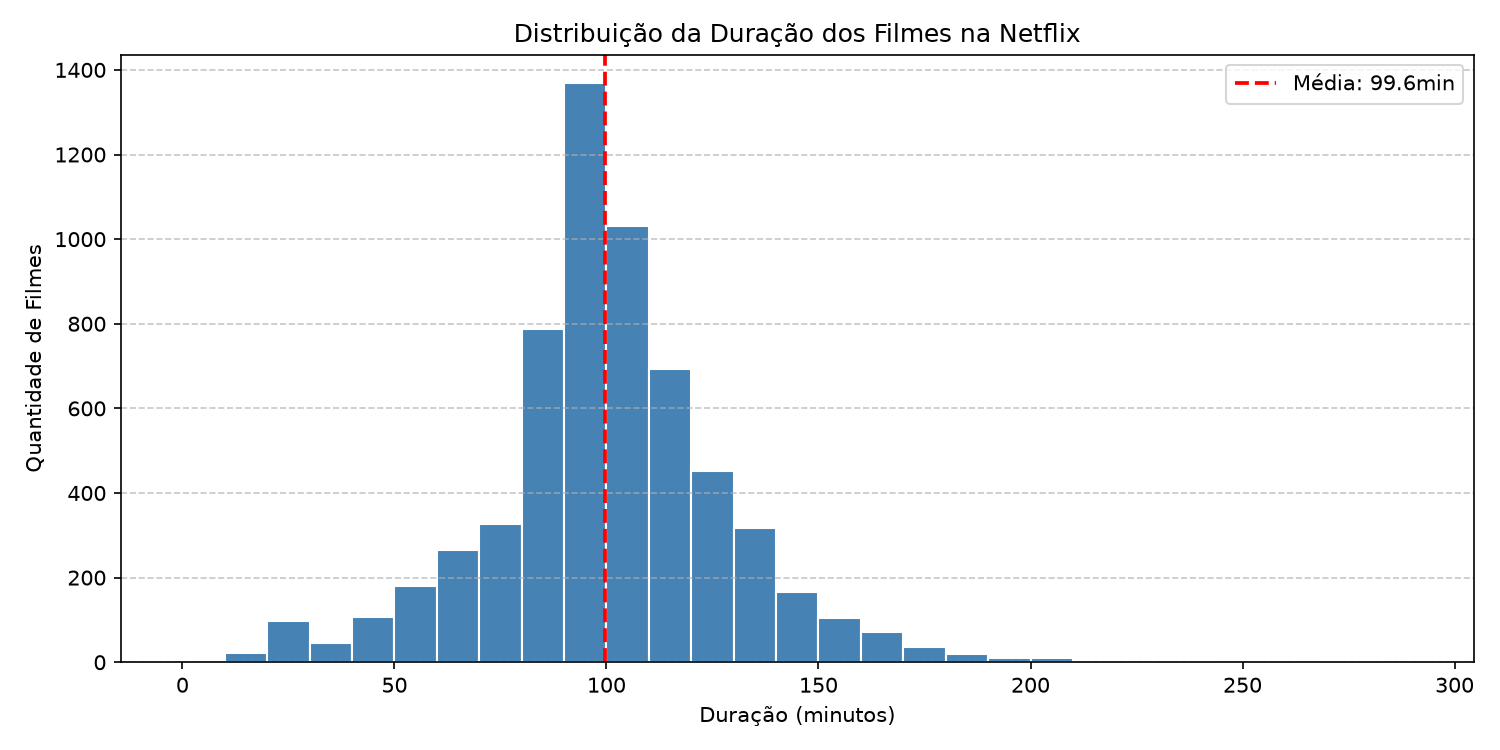
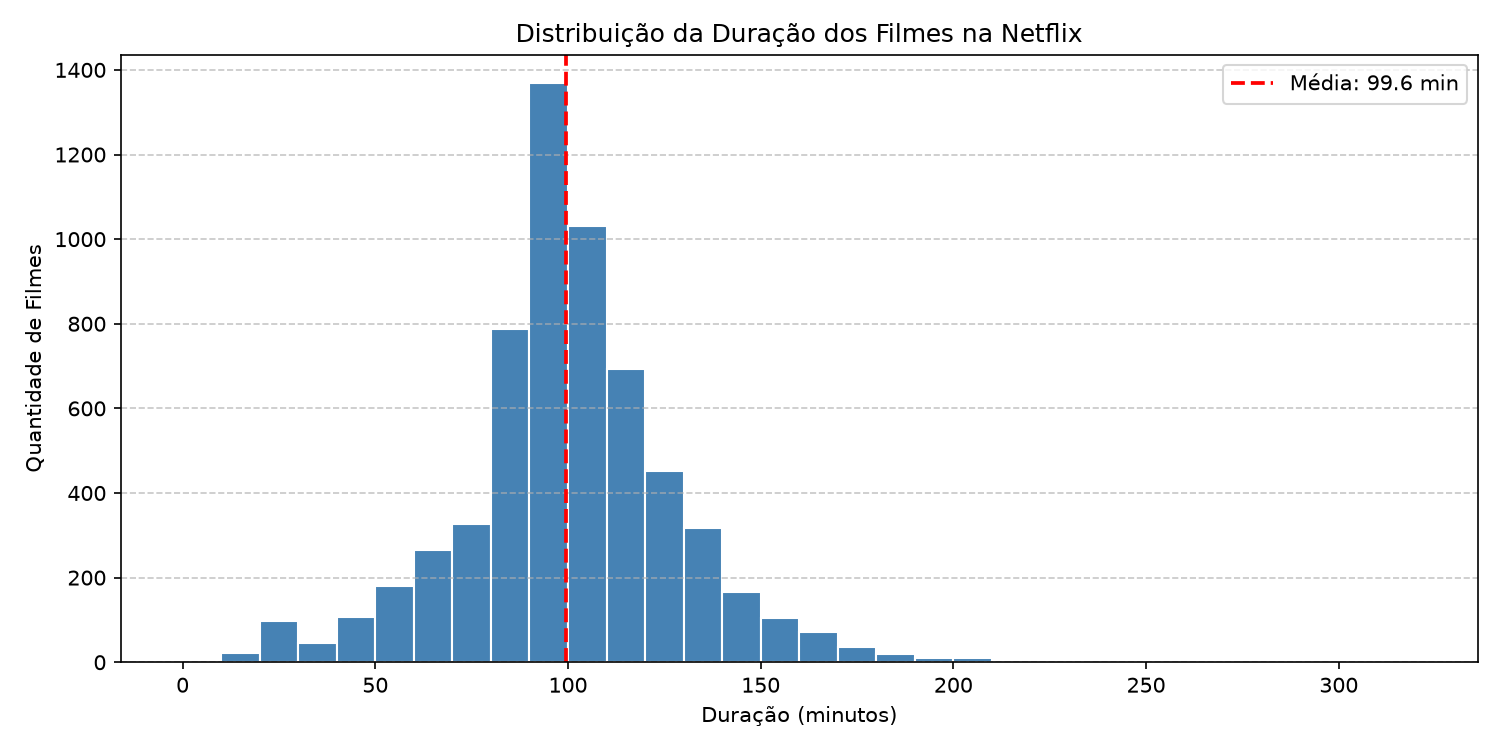
fix(netflix): alinha estatisticas dos filmes, ajusta bins e adiciona README raiz

diff --git a/Netflix EDA/catalog_diagnostics.py b/Netflix EDA/catalog_diagnostics.py
@@ -4,11 +4,16 @@ import matplotlib.pyplot as plt
 
 
 # 1. Carregamento dos dados
-data_path = Path("Dataset/netflix_titles.csv")
-df = pd.read_csv(data_path) 
+BASE_DIR = Path(__file__).resolve().parent
+data_path = BASE_DIR / "Dataset" / "netflix_titles.csv"
+images_dir = BASE_DIR / "images"
+images_dir.mkdir(exist_ok=True)
 
-if data_path.exists():
-    print("Arquivo carregado com sucesso!")
+if not data_path.exists():
+    raise FileNotFoundError(f"Arquivo não encontrado em: {data_path}")
+
+df = pd.read_csv(data_path)
+print("Arquivo carregado com sucesso!")
 
 
 # 2. Visualização geral dos dados
@@ -30,32 +35,29 @@ print(df[["duration", "duration_int", "duration_type"]].head())
 print("\nCategorias em duration_type:")
 print(df["duration_type"].value_counts(dropna=False))
 
-#Medidas de Tendência Central 
-coluna = "duration_int"
-
-media = df[coluna].mean()
-mediana = df[coluna].median()
-moda = df[coluna].mode()
-
+# Medidas de Tendência Central e Dispersão (apenas filmes, em minutos)
 duracao_filmes = df.loc[df["type"] == "Movie", "duration_int"].dropna()
 
-#Medida de Dispersão
-desvio_padrao = df[coluna].std()
+media = duracao_filmes.mean()
+mediana = duracao_filmes.median()
+moda = duracao_filmes.mode()
+desvio_padrao = duracao_filmes.std()
+minimo = duracao_filmes.min()
+maximo = duracao_filmes.max()
 
-print("\nMedidas de Tendência Central:")
+print("\nMedidas de Tendência Central (Filmes em minutos):")
 print(f"Média: {media:.2f}")
 print(f"Mediana: {mediana:.2f}")
 print(f"Moda: {moda.tolist()}")
+print(f"Mín / Máx: {minimo} / {maximo}")
 
-print(f"\nMedida de Dispersão: {desvio_padrao:.2f}")
+print(f"\nMedida de Dispersão (Desvio Padrão): {desvio_padrao:.2f}")
 
 lancamentos_por_ano = (
     df["release_year"]
     .value_counts()
     .sort_index()
 )
-media_filmes = duracao_filmes.mean()
-mediana_filmes = duracao_filmes.median()
 
 
 # 4. Visualização Gráfica
@@ -69,13 +71,13 @@ plt.ylabel('Quantidade de Títulos')
 plt.xticks(range(1920, 2025, 10), rotation = 45)
 plt.grid(axis="y", linestyle='--', alpha=0.7)
 plt.tight_layout()
-plt.savefig("images/releases_by_year.png", dpi=150)
+plt.savefig(images_dir / "releases_by_year.png", dpi=150)
 plt.show()
 
 # Histograma de duração dos filmes
 plt.figure(figsize=(10,5))
-plt.hist(duracao_filmes, bins=range(0, 300, 10), color="steelblue", edgecolor="white")
-plt.axvline(media_filmes, color="red", linestyle="--", linewidth=1.8, label=f"Média: {media_filmes:.1f}min")
+plt.hist(duracao_filmes, bins=range(0, 330, 10), color="steelblue", edgecolor="white")
+plt.axvline(media, color="red", linestyle="--", linewidth=1.8, label=f"Média: {media:.1f} min")
 
 plt.title("Distribuição da Duração dos Filmes na Netflix")
 plt.xlabel("Duração (minutos)")
@@ -83,6 +85,6 @@ plt.ylabel("Quantidade de Filmes")
 plt.legend()
 plt.grid(axis="y", linestyle = "--", alpha=0.7)
 plt.tight_layout()
-plt.savefig("images/movies_duration_hist.png", dpi=150)
+plt.savefig(images_dir / "movies_duration_hist.png", dpi=150)
 plt.show()
 

diff --git a/README.md b/README.md
@@ -1,0 +1,28 @@
+# Data Analytics & Science
+
+Repositório dedicado a **atividades acadêmicas práticas** e projetos de portfólio em **Análise de Dados** e **Ciência de Dados** com Python.
+
+---
+
+## Projetos
+
+| Projeto | Foco | Stack | Documentação |
+| :--- | :--- | :--- | :--- |
+| **Netflix EDA** | Diagnóstico de catálogo, limpeza de tipos mistos (`duration`), estatística descritiva e visualização | Python, Pandas, Matplotlib | [Ver README](./Netflix%20EDA/README.md) |
+
+---
+
+## Estrutura do Repositório
+
+```text
+.
+├── Netflix EDA/          # Exercício 1.1: Diagnóstico de Catálogo e Duração de Conteúdo
+├── .gitignore
+└── README.md
+```
+
+---
+
+## Como Executar os Projetos
+
+Cada pasta contém seu próprio `README.md` com o contexto, resultados, gráficos e instruções específicas de instalação (`requirements.txt`) e execução.

diff --git a/Netflix EDA/README.md b/Netflix EDA/README.md
@@ -17,7 +17,8 @@ Explorar o catálogo da Netflix a partir do dataset *Netflix Movies and TV Shows
 
 ## Sobre o Dataset
 
-* **Arquivo:** `Dataset/netflix_titles.csv` (*Netflix Movies and TV Shows*)
+* **Fonte:** [Netflix Movies and TV Shows — Kaggle](https://www.kaggle.com/datasets/shivamb/netflix-shows) (Shivam Bansal)
+* **Arquivo:** `Dataset/netflix_titles.csv`
 * **Dimensões:** `8.807` registros e `12` colunas
 * **Composição do catálogo:**
   * **Filmes (`Movie`):** `6.131` títulos (`69,6%`)
